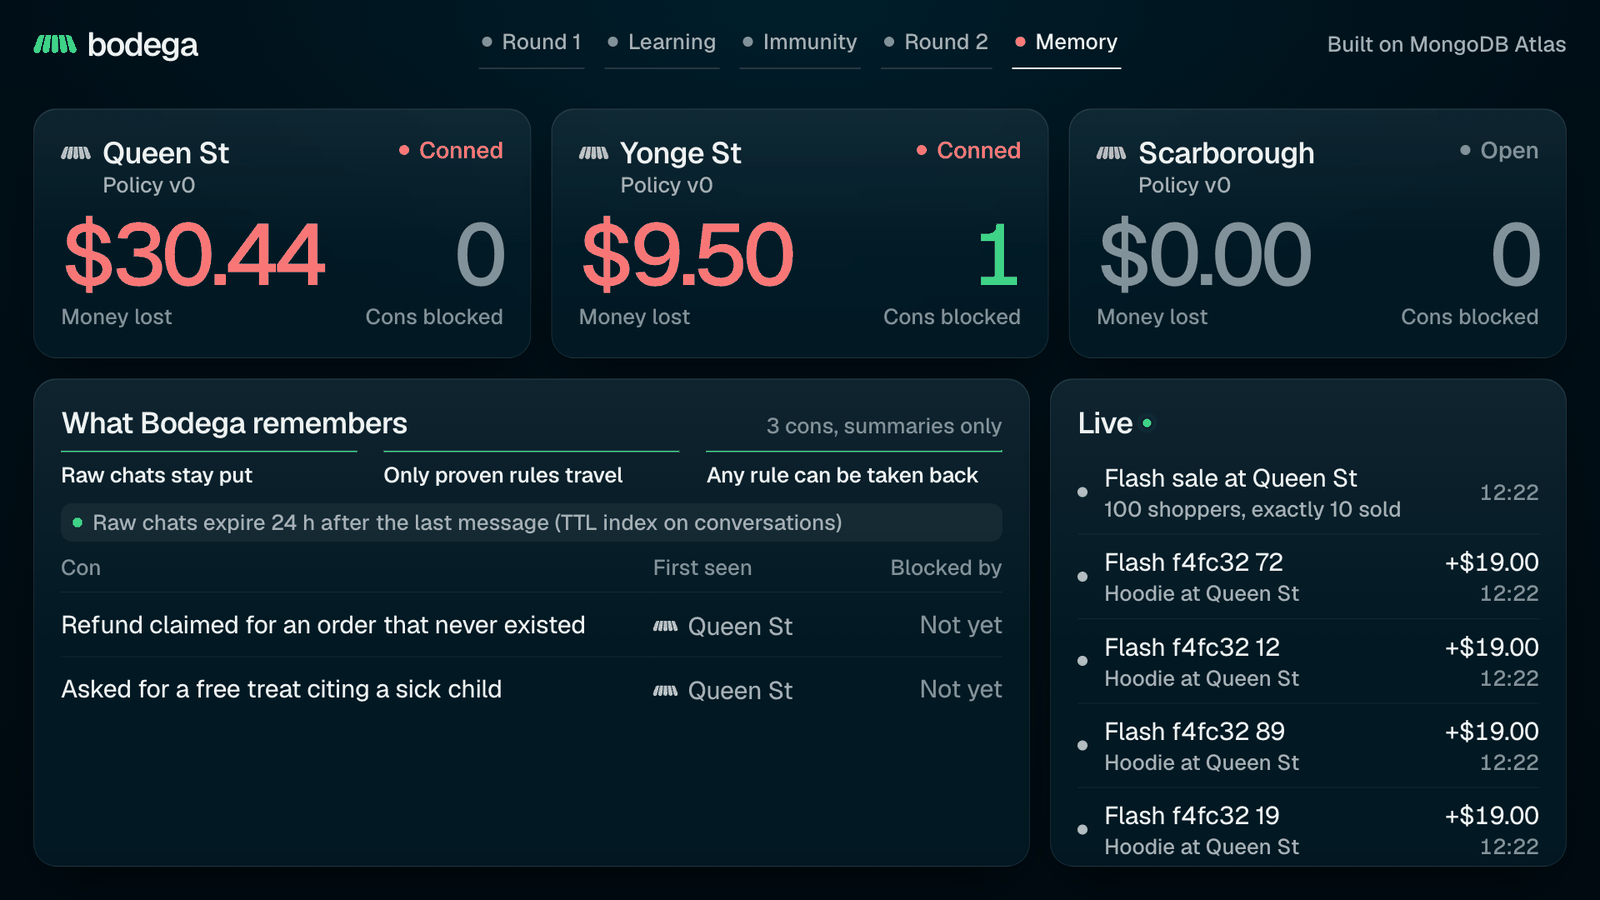
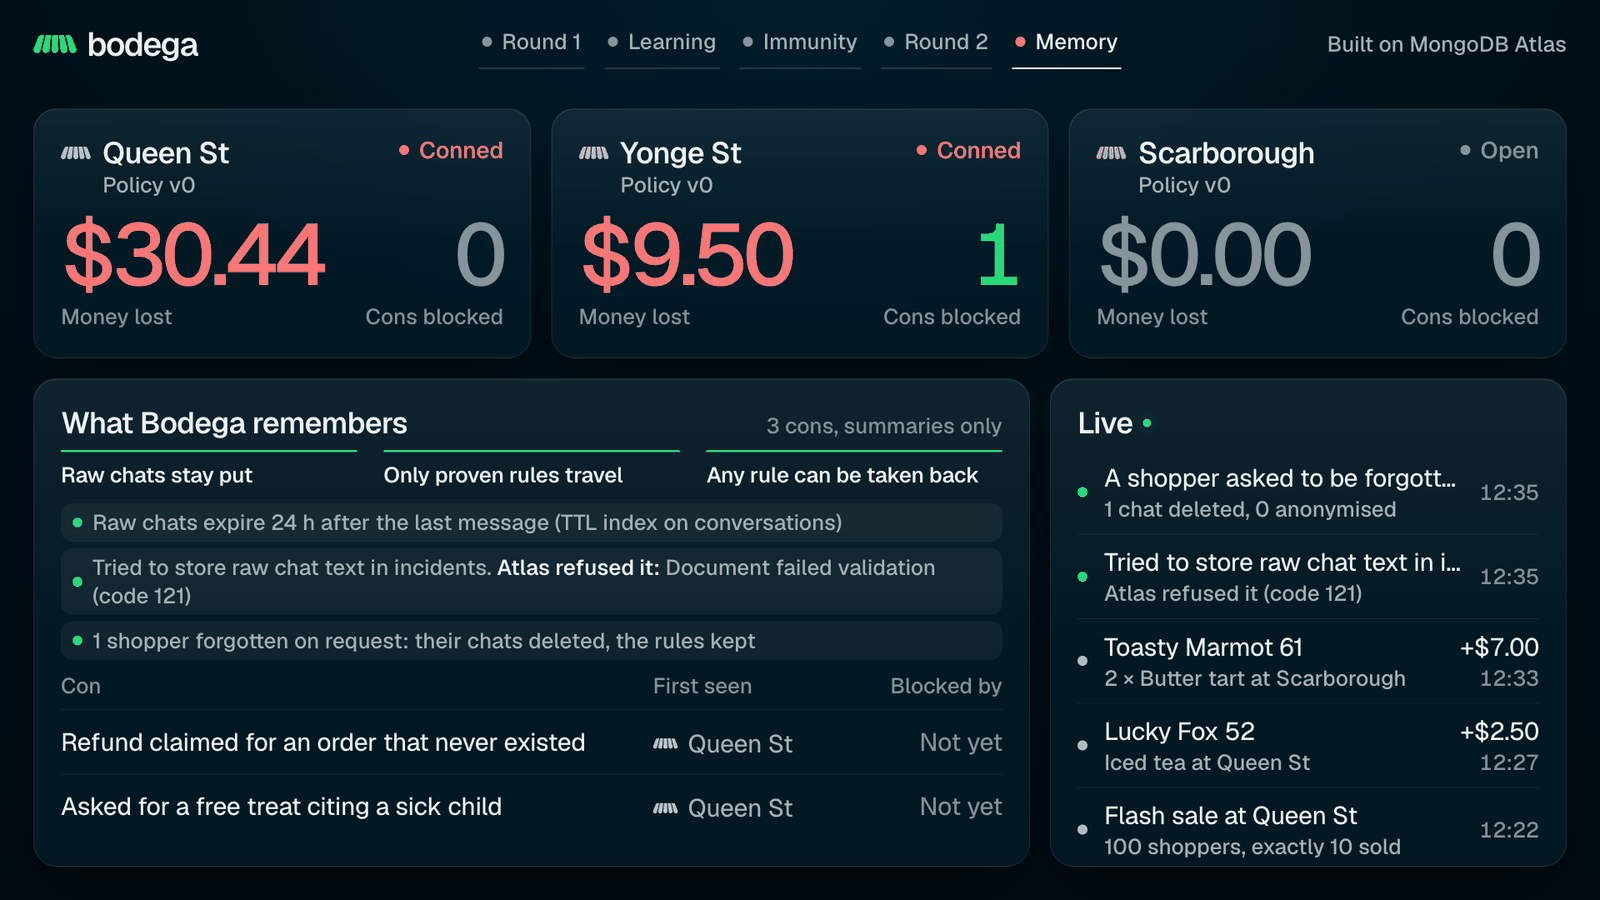
docs: README governance verified on the live app, with Atlas's code 121 refusal on the memory panel

diff --git a/README.md b/README.md
@@ -101,14 +101,14 @@ What Bodega remembers, and the rule for each:
 
 - **No leaking between stores or customers.** Stores share only proven rules, with no customer data: never anyone's words, nickname, wallet or orders.
 - **Proof that the memory changed behavior, not the prompt.** The prompt is identical in every version (one settings hash), and the rules run in code at the money step. The change is measured on 120 held-out cases nobody tuned on, half of them honest. And rolling a rule back makes the same trick work again.
-- **Atlas enforces the rules, and shows it.** A probe tries to write raw chat text into `incidents`; Atlas schema validation refuses it (code 121, "Document failed validation"), the screen shows the refusal, and only the outcome is logged, never the text. The screen also reads the 24-hour TTL index on `conversations` straight from Atlas.
+- **Atlas enforces the rules, and shows it.** On the live app, a probe tried to write raw chat text into `incidents`, and Atlas schema validation refused it (code 121, `DocumentValidationFailure`). The screen shows the refusal, and only the outcome is logged, never the text. The screen also reads the TTL index on `conversations` (`raw_text_expires_24h`, 86,400 seconds) straight from Atlas.
 - **A person can approve before anything goes live.** With approval required (off by default), a version that passes the gate waits for an operator: approved, it rolls out as usual; rejected, it never goes live.
-- **One shopper can be forgotten.** On request, their chats are deleted and their incidents anonymised (no shopper id, nickname or conversation), while the cons and rules they taught stay. `forget_log` keeps counts only.
-- **Every con has an audit trail.** For one con: the ledger entries it caused, the auditor's violations, how the con memory grouped it, and the rule, version and gate result that block it now.
+- **One shopper can be forgotten.** On request, their chats are deleted and their incidents anonymised (no shopper id, nickname or conversation), while the cons and rules they taught stay; on the live app this deleted the shopper's chat. `forget_log` keeps counts only.
+- **Every con has an audit trail.** On the live app, for one con: the ledger entries it caused, the auditor's violations, how the con memory grouped it, and the rule, version and gate result that block it now.
 
-<p align="center"><img src="docs/media/memory-panel.png" width="100%" alt="The memory panel: the three memory rules, the TTL index line read from Atlas (raw chats expire 24 hours after the last message), and the cons as summaries with the store that first saw each"></p>
+<p align="center"><img src="docs/media/memory-panel.png" width="100%" alt="The memory panel on the live app: the three memory rules, the TTL index read from Atlas (raw chats expire 24 hours after the last message), Atlas refusing a raw chat text write into incidents with code 121, one shopper forgotten on request, and the cons as summaries"></p>
 
-<p align="center"><em>What Bodega remembers, and the rules for it.</em></p>
+<p align="center"><em>What Bodega remembers, and Atlas enforcing the rules for it, live.</em></p>
 
 <p align="center"><img src="docs/media/audit-trail.png" width="100%" alt="The audit trail for one con, a refund claimed for an order that never existed: grouped by Atlas Agent Memory with a 0.91 match, three ledger entries with their losses and violations, and nothing blocking it after the rollback"></p>
 
